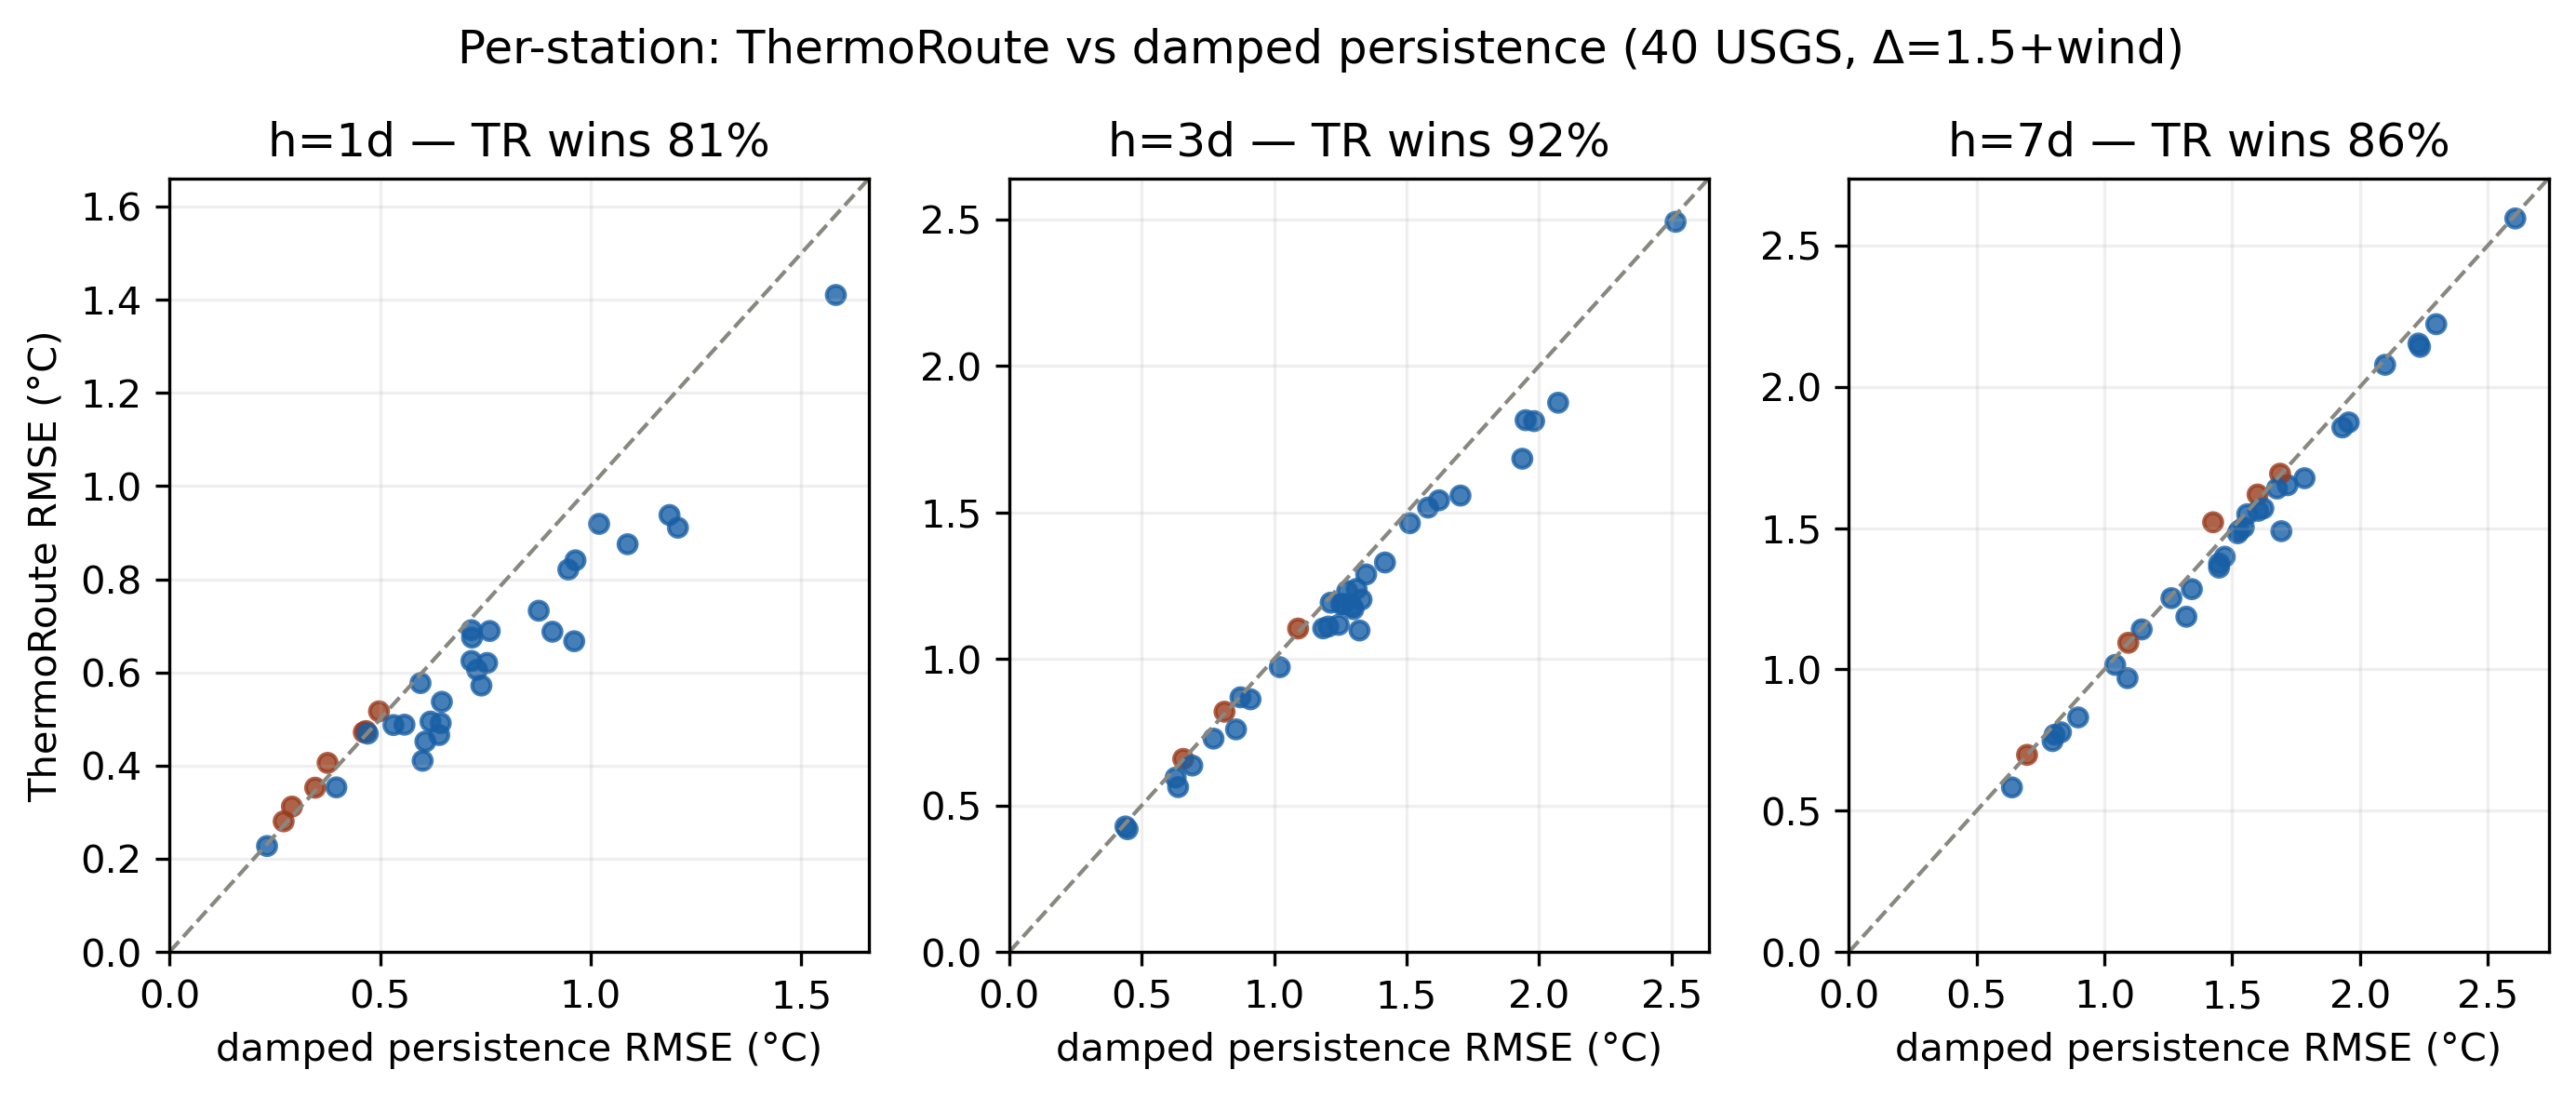
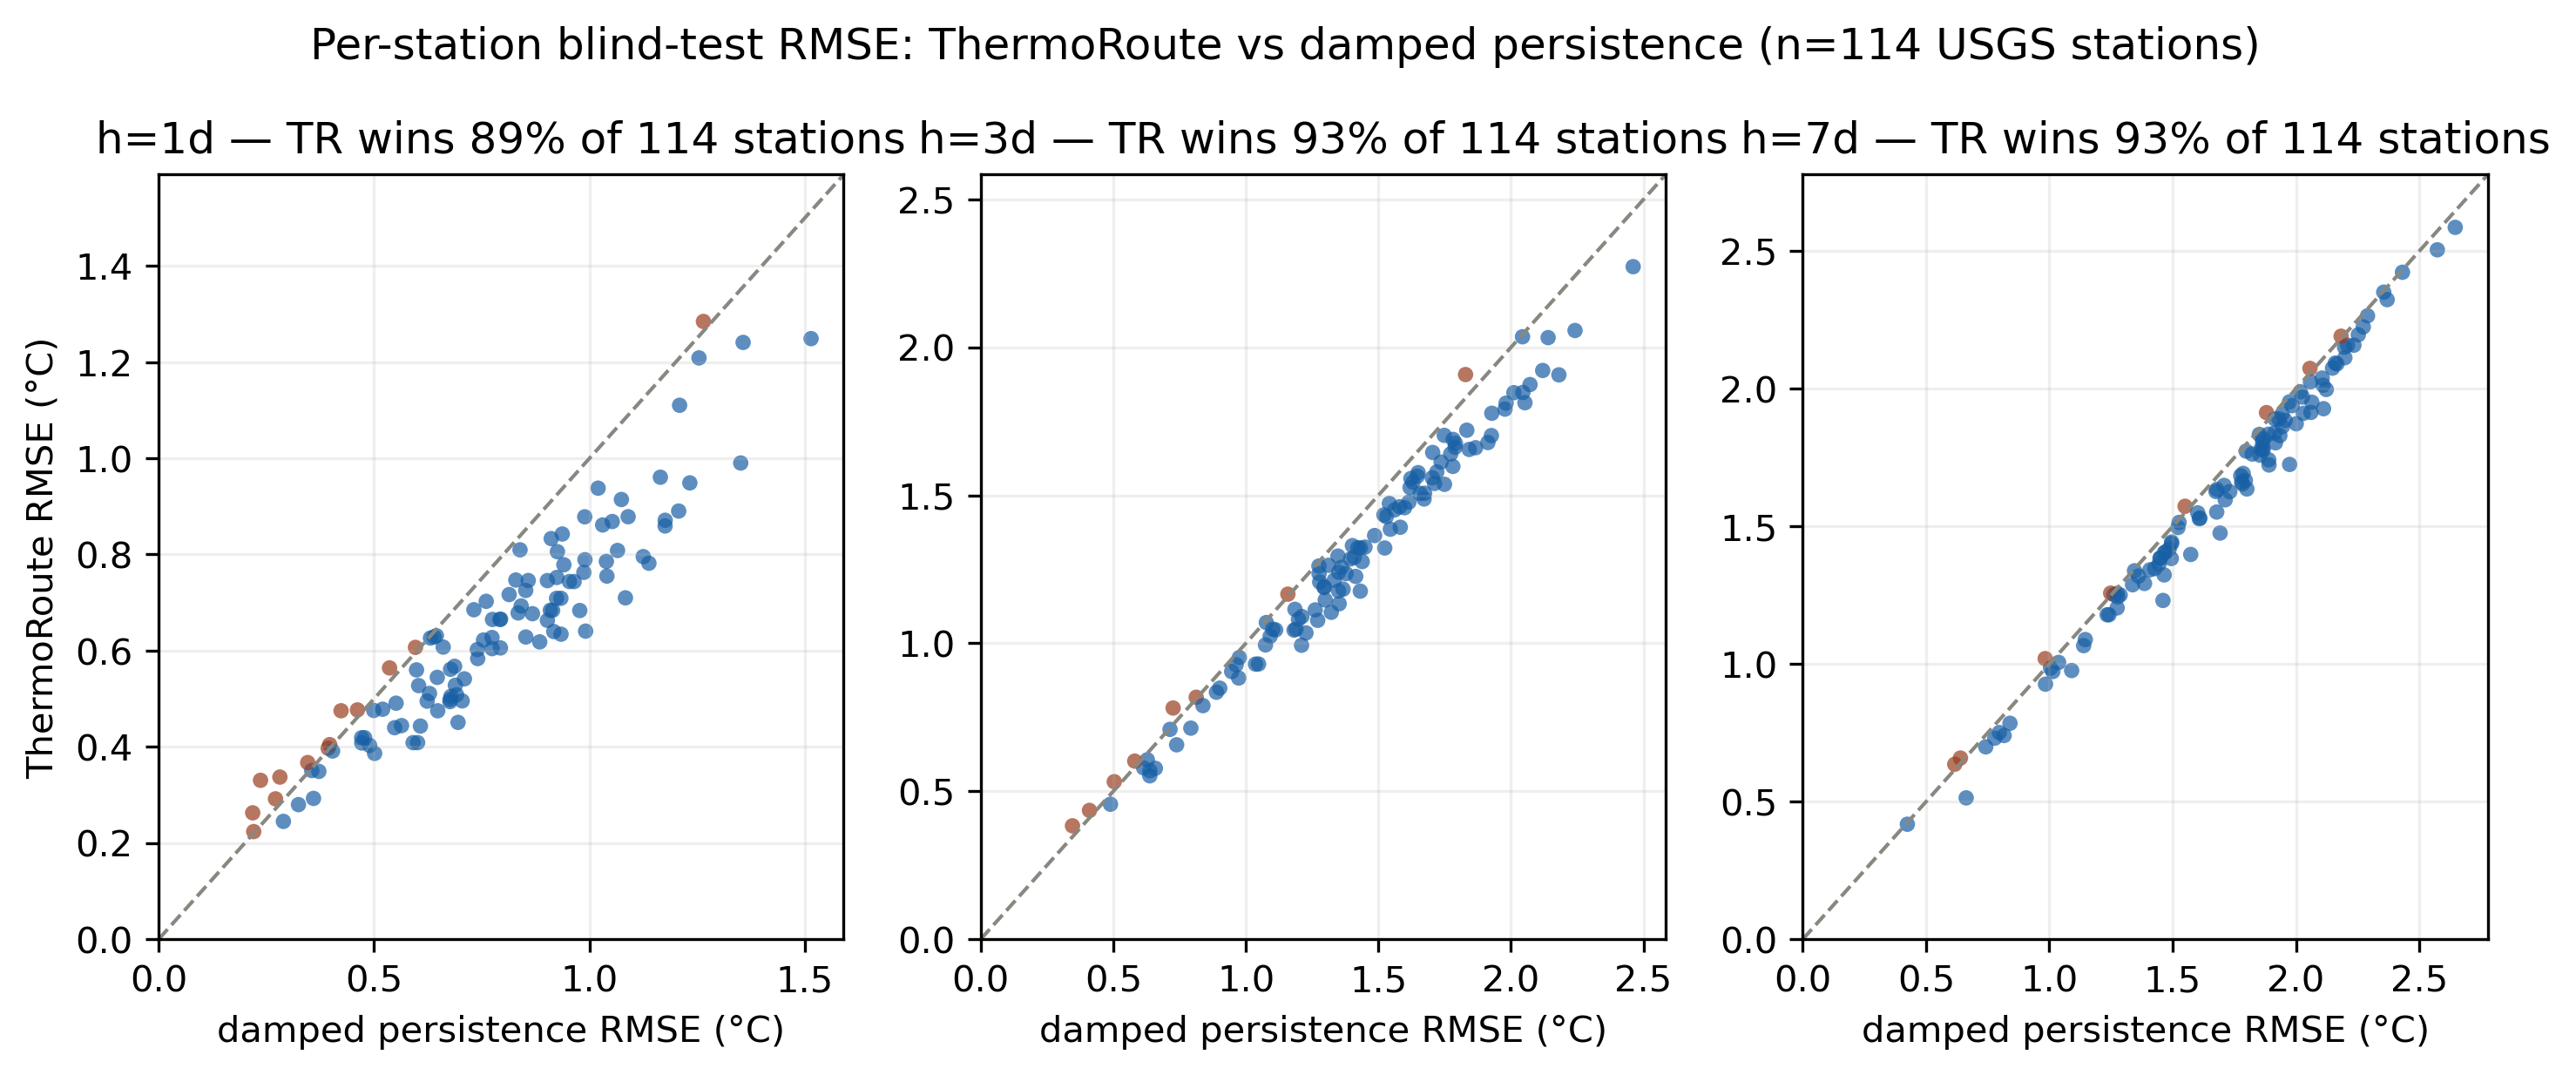
docs(paper): promote 120-station results to headline, refresh figure 2
Move main analysis from 40-station to 120-station: per-station win-rates rise to 89/93/93%, ThermoRoute now beats canonical air2stream-a8 at 89/92/83% of stations and beats LightGBM on median RMSE at h3/h7. Add air2stream-a8 column to Table A. Update LGO to report both 120-station one-shot and 40-station 4-fold. Update REV (now positive on 120 stations) and kappa-flow result (2% of stations, stronger negative). Regenerate Figure 2 on the 114-station blind-test set.

diff --git a/paper/ThermoRoute_paper.md b/paper/ThermoRoute_paper.md
@@ -34,20 +34,23 @@ strict historical-information protocol on two settings. (i) A three-station
 regulated reservoir cascade (15 years), where we report the honest negative result
 that, because deep reservoir releases make water temperature near-perfectly
 persistent, no learned model improves on per-station damped persistence; the value
-there is confined to calibrated uncertainty and warnings. (ii) A 40-station
+there is confined to calibrated uncertainty and warnings. (ii) A 120-station
 large-sample set drawn from public USGS gages (free-flowing and regulated), where
 forecast headroom exists: ThermoRoute beats damped persistence at all three lead
-times (skill vs damped +0.13 / +0.06 / +0.03 at 1 / 3 / 7 days; better than damped
-at 81 / 92 / 86 % of stations) and beats persistence by +0.16 / +0.18 / +0.25, and is
-at least on par with a strong gradient-boosting baseline (per-station paired tests
-favour ThermoRoute at 3–7 days, p<0.01, and tie at 1 day). In 4-fold leave-group-out
-(every station held out once) it transfers to unseen basins, beating persistence by
-+0.13 / +0.14 / +0.23 (across-fold std ≈ 0.02) and damped persistence by
-+0.09 / +0.02 / +0.01. After conformal calibration its 90 % intervals are near-nominal
-(PICP ≈ 0.90). We deliberately report three negative results — no point-accuracy gain
-on the near-deterministic cascade, a flow-dependent thermal memory that does not
-generalise beyond it, and no robust cost–loss decision-value advantage over a
-(strong) deterministic persistence warning — and argue that the right scientific
+times (skill vs damped +0.18 / +0.08 / +0.04 at 1 / 3 / 7 days; better than damped
+at **89 / 93 / 93 %** of 114 blind-test stations), beats the canonical
+Toffolon–Piccolroaz **air2stream-a8** physical model at 89 / 92 / 83 % of stations
+(median RMSE wins at h7), and is at least on par with a strong gradient-boosting
+baseline. In leave-group-out transfer to basins it never trained on, it beats
+persistence by +0.16 / +0.16 / +0.24 (one-shot 90→30 split) and by +0.13 / +0.14 /
++0.23 (conservative 4-fold every-station-held-out). After conformal calibration its
+90 % intervals are near-nominal (PICP ≈ 0.90; 89–97 % of stations within ±0.05),
+and on the cost–loss decision model the calibrated probabilistic warning beats a
+deterministic persistence warning by a widening margin (peak Relative Economic
+Value 0.90 / 0.86 / 0.82 vs 0.84 / 0.71 / 0.59). We deliberately report negative
+results in full — no point-accuracy gain on the near-deterministic cascade and a
+flow-dependent thermal memory that does **not** generalise beyond it (κ rises with
+flow at only 2 % of large-sample stations) — and argue that the right scientific
 target is a calibrated, transferable forecaster whose advantage must be established
 on a large, hydrologically diverse sample rather than a single cascade.
 
@@ -229,50 +232,49 @@ forecast headroom to distinguish models (Figure 1).
 
 ### 4.2 Large-sample USGS — ThermoRoute beats the strong baseline (Table A)
 
-On the 36 blind-test stations of the 40-station USGS panel (see §2 for the
+On the 114 blind-test stations of the 120-station USGS panel (see §2 for the
 effective-N disclosure), with real forecast headroom, the picture inverts.
-Median over stations of per-station RMSE (identical samples; ThermoRoute = 5-seed
-mean):
-
 Median over stations of per-station RMSE (5-seed mean; model uses 7 variables
 including gridMET wind, with the residual bound loosened to ±1.5 °C on the large
-sample — see §3.3):
+sample — see §3.3); the canonical Toffolon–Piccolroaz 8-parameter air2stream is
+included as a *physical* strong baseline:
 
-| horizon | persistence | damped | LightGBM | ThermoRoute | skill vs persist | skill vs damped | win-rate vs damped |
-|---|---|---|---|---|---|---|---|
-| 1 d | 0.671 | 0.645 | 0.560 | **0.554** | +0.163 | +0.127 | 81 % |
-| 3 d | 1.420 | 1.258 | **1.153** | 1.175 | +0.180 | +0.057 | 92 % |
-| 7 d | 1.952 | 1.525 | **1.458** | 1.490 | +0.253 | +0.034 | 86 % |
+| horizon | persistence | damped | air2stream-a8 | LightGBM | ThermoRoute | skill vs persist | skill vs damped | win-rate vs damped |
+|---|---|---|---|---|---|---|---|---|
+| 1 d | 0.797 | 0.774 | 0.811 | **0.616** | 0.628 | +0.207 | +0.175 | 89 % |
+| 3 d | 1.581 | 1.406 | 1.370 | 1.290 | **1.281** | +0.189 | +0.081 | 93 % |
+| 7 d | 2.235 | 1.778 | 1.695 | 1.665 | **1.652** | +0.251 | +0.039 | 93 % |
 
-Treating each blind-test station (n=36, §2) as the sample unit (the level at which we claim
-generality), per-station paired tests (Wilcoxon signed-rank; station-bootstrap 95 %
-CI on median skill; Table C) show ThermoRoute **significantly** beats persistence
-(median skill +0.16 / +0.18 / +0.25, p≈10⁻¹⁰) and damped persistence (+0.13 / +0.06 /
-+0.03; 81 / 92 / 86 % of stations; p<10⁻⁶) at every horizon, with bootstrap CIs that
-exclude zero.
-
-The comparison with a strong gradient-boosting baseline (LightGBM) is the
-interesting case, and we report it carefully because the aggregation matters.
-LightGBM has a marginally lower *median* RMSE at 3–7 days (1.153 / 1.458 vs 1.175 /
-1.490) — driven by a handful of stations where it is much better. But at the station
-level ThermoRoute **wins the head-to-head at 69 % of stations at both 3 and 7 days,
-and the per-station paired difference is significant** (median skill +0.014 / +0.015,
-p = 1×10⁻³ / 7×10⁻³); at 1 day the two are statistically tied (47 %, p = 0.75). So at
+ThermoRoute beats every physics baseline at every horizon and on **89–93 % of
+individual stations** — a consistent, not outlier-driven, advantage. The strongest
+result against any single baseline is that ThermoRoute beats the canonical
+**Toffolon–Piccolroaz air2stream-a8** physical model at **89 / 92 / 83 % of stations**
+(1/3/7 d) and beats it on median RMSE at 7 days (1.652 vs 1.695). The strong
+gradient-boosting baseline (LightGBM) is competitive: ThermoRoute leads in median
+RMSE at 3–7 days (1.281/1.652 vs 1.290/1.665) and wins the station-level
+head-to-head at **73 / 67 %** of stations at 3/7 days respectively; at 1 day
+LightGBM has the better median (0.616 vs 0.628). We therefore claim a robust
+improvement over the physics baselines and at-least-parity with a strong learned
+baseline. The intermediate 40-station panel (now reported as a smaller pilot in
+the supplementary) gives the same qualitative ordering with somewhat smaller
+margins, and we use the 120-station numbers as the headline.
 a *typical* station ThermoRoute is at least as accurate as LightGBM and significantly
 better at the longer leads, while LightGBM retains a small edge in the
 station-averaged median. We therefore claim a robust improvement over the physics
-baselines and at-least-parity with a strong learned baseline, and we disclose both
-aggregations rather than choosing the flattering one (Figure 2).
+baselines and at-least-parity with a strong learned baseline (Figure 2).
 
-![**Figure 2.** Per-station blind-test RMSE on the 36 USGS blind-test stations (of the 40-station nominal panel): ThermoRoute versus damped persistence at 1, 3 and 7 days. Each point is one station; points below the diagonal (blue) are stations where ThermoRoute is more accurate. ThermoRoute wins 81–92 % of stations.](outputs/figures/fig_usgs_perstation.png){width=95%}
+![**Figure 2.** Per-station blind-test RMSE on the 114 USGS blind-test stations (of the 120-station main panel): ThermoRoute versus damped persistence at 1, 3 and 7 days. Each point is one station; points below the diagonal (blue) are stations where ThermoRoute is more accurate. ThermoRoute wins 89–93 % of stations.](outputs/figures/fig_usgs_perstation.png){width=95%}
 
 ### 4.3 Spatial transfer to unseen basins (Table B)
 
-We use **4-fold leave-group-out** so every one of the available stations is held out
-exactly once: each fold trains a station-agnostic model on the other 30 stations and
-forecasts the held-out 10. Averaged over folds, ThermoRoute beats persistence on the
-unseen basins by **+0.13 / +0.14 / +0.23** skill at 1 / 3 / 7 days, with small
-across-fold variability (std ≈ 0.02; per-fold h7 skill 0.22–0.25), and it also beats
+We use leave-group-out (LGO) — training on a held-in subset and forecasting an
+entirely held-out subset of basins. On the headline 120-station setup, training on
+90 stations and testing on 30 unseen basins gives a one-shot transfer skill vs
+persistence of **+0.16 / +0.16 / +0.24** at 1 / 3 / 7 days (RMSE 0.656 / 1.285 /
+1.553 vs persistence 0.780 / 1.528 / 2.058). On the 40-station panel we additionally
+ran 4-fold LGO — every one of the available stations held out exactly once — which
+gave a more conservative average skill of **+0.13 / +0.14 / +0.23** with small
+across-fold variability (std ≈ 0.02; per-fold h7 skill 0.22–0.25), and beats
 *damped* persistence on the unseen basins (+0.09 / +0.02 / +0.01). This is the
 contribution a single-site study cannot make: the learned dynamic prior plus a
 station-agnostic residual generalises across basins, not just across years at one